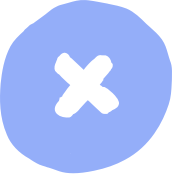
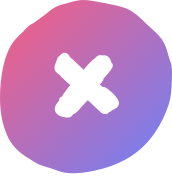
Another skin change

diff --git a/app/table-of-contents/systems.js b/app/table-of-contents/systems.js
@@ -1,6 +1,6 @@
 
 const COLORS = ["#FFF"];
-const GRAVITY = [-0.035, 0.05];
+const GRAVITY = [0, 0.05];
 
 const random = (min = 0, max = 1) => {
   return Math.random() * (max - min) + min;
@@ -13,7 +13,7 @@ const SpawnParticles = (state,  { screen }) => {
 	Object.keys(state).filter(key => state[key].particles).forEach(key => {
 		let sys = state[key];
 		sys.particles.push({
-			position: [random(screen.width / 2, screen.width * 1.5), -50],
+			position: [random(0, screen.width), -50],
 			velocity: GRAVITY,
 			mass: random(),
 			lifespan: 148,

diff --git a/app/table-of-contents/index.js b/app/table-of-contents/index.js
@@ -96,8 +96,11 @@ export default class TableOfContents extends Component {
       : null;
 
     return (
+      // ["#E96443", "#904E95"]
+      // ["#642B73", "#C6426E"]
+      // ["#C6426E", "#642B73"]
       <LinearGradient
-        colors={["#62B5BF", "#8262BF", "#5F5375"]}
+        colors={["#E96443", "#904E95"]}
         style={css.linearGradient}
       >
 
